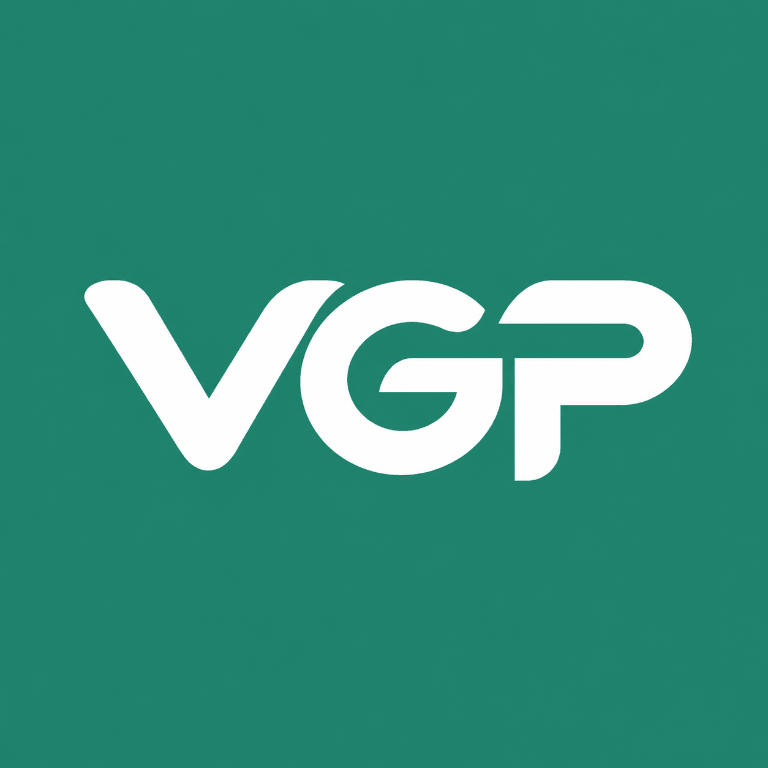
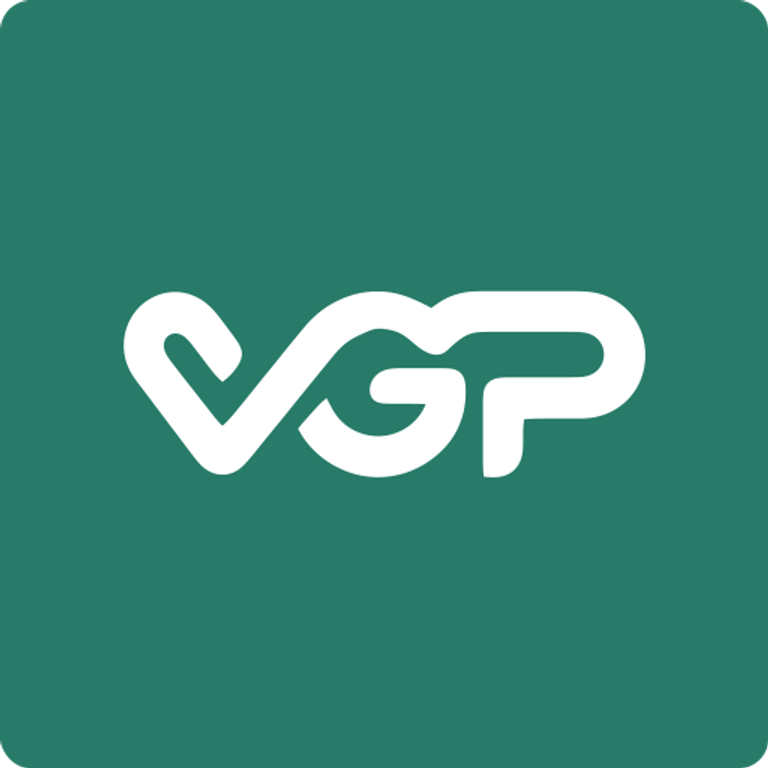
Updated

diff --git a/src/app/manifest.ts b/src/app/manifest.ts
@@ -12,13 +12,13 @@ export default function manifest(): MetadataRoute.Manifest {
     theme_color: "#1f3a2f",
     icons: [
       {
-        src: "/venuguestpass-pwa-192.png",
+        src: "/venuguestpass-pwa-192.png?v=20261128",
         sizes: "192x192",
         type: "image/png",
         purpose: "any",
       },
       {
-        src: "/venuguestpass-pwa-512.png",
+        src: "/venuguestpass-pwa-512.png?v=20261128",
         sizes: "512x512",
         type: "image/png",
         purpose: "any",

diff --git a/src/app/layout.tsx b/src/app/layout.tsx
@@ -19,6 +19,10 @@ export const metadata: Metadata = {
   },
   description:
     "Manage registrations, invitations, guestlists, tickets, and attendance in one powerful event management workspace.",
+  icons: {
+    icon: "/favicon.ico?v=20261128",
+    apple: "/venuguestpass-pwa-192.png?v=20261128",
+  },
   referrer: "no-referrer",
 };
 

diff --git a/src/components/brand-mark.tsx b/src/components/brand-mark.tsx
@@ -6,7 +6,7 @@ export function BrandMark({ className = "brand-mark" }: { className?: string }) 
       alt=""
       className={className}
       height={64}
-      src="/venuguestpass-brand-mark.png"
+      src="/vgp-logo-green-bg.png"
       style={{ borderRadius: 5 }}
       width={64}
     />
